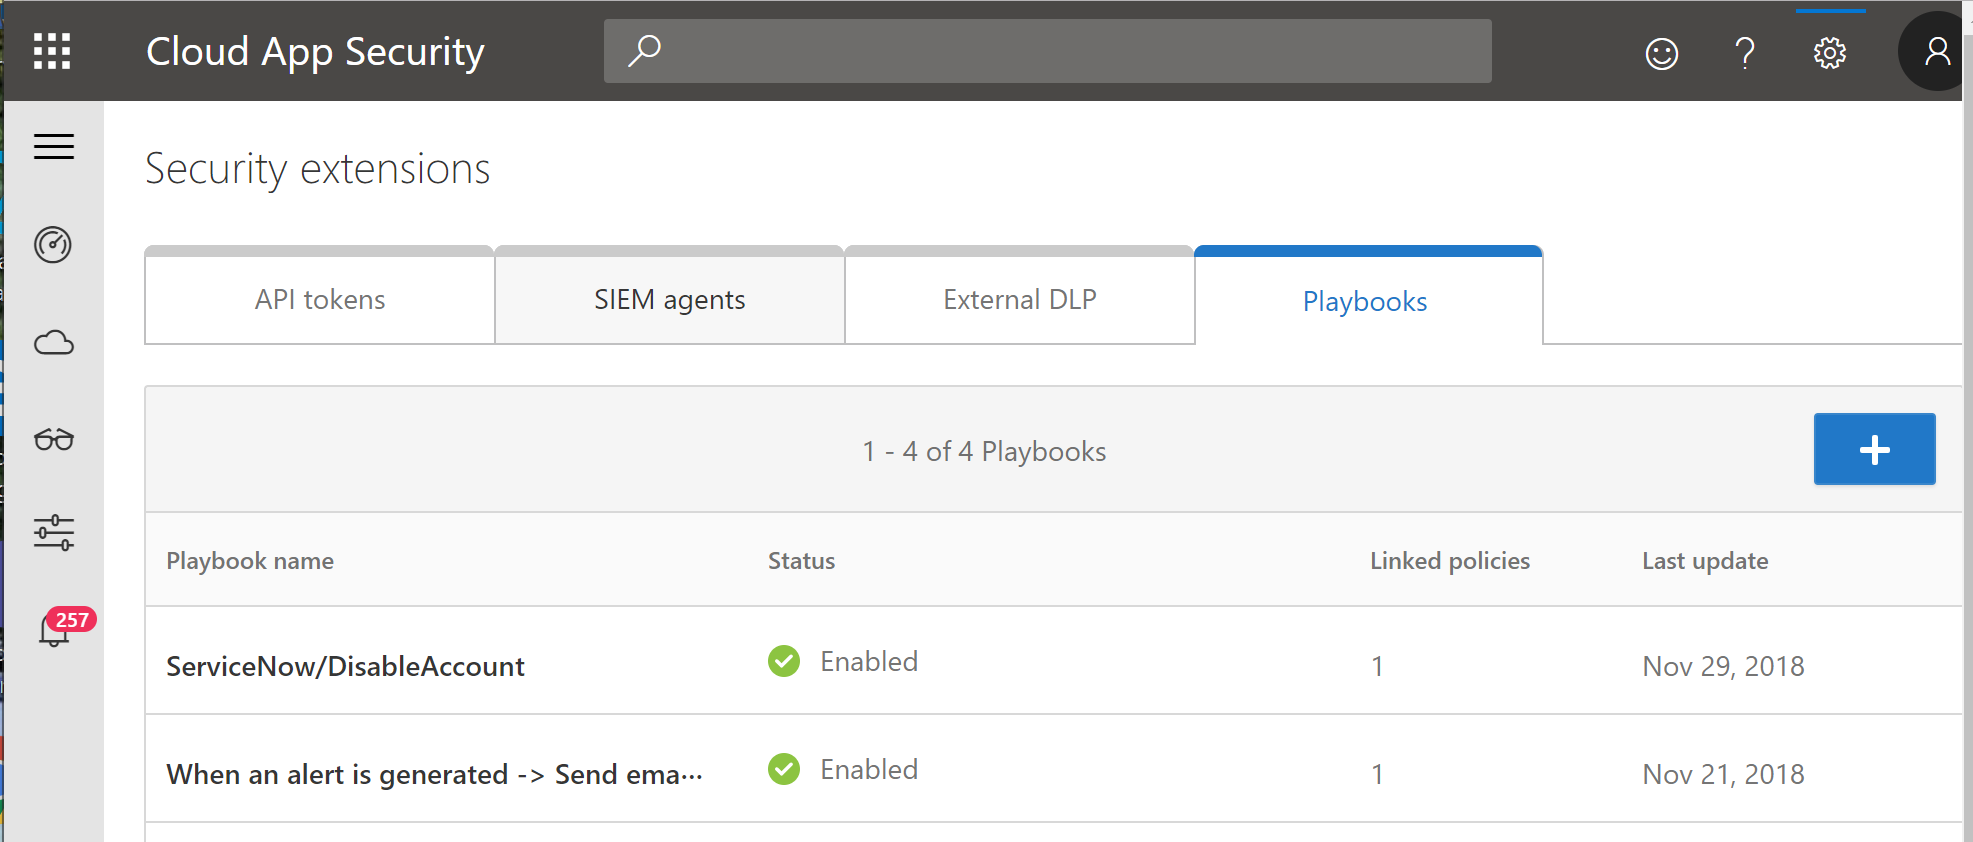
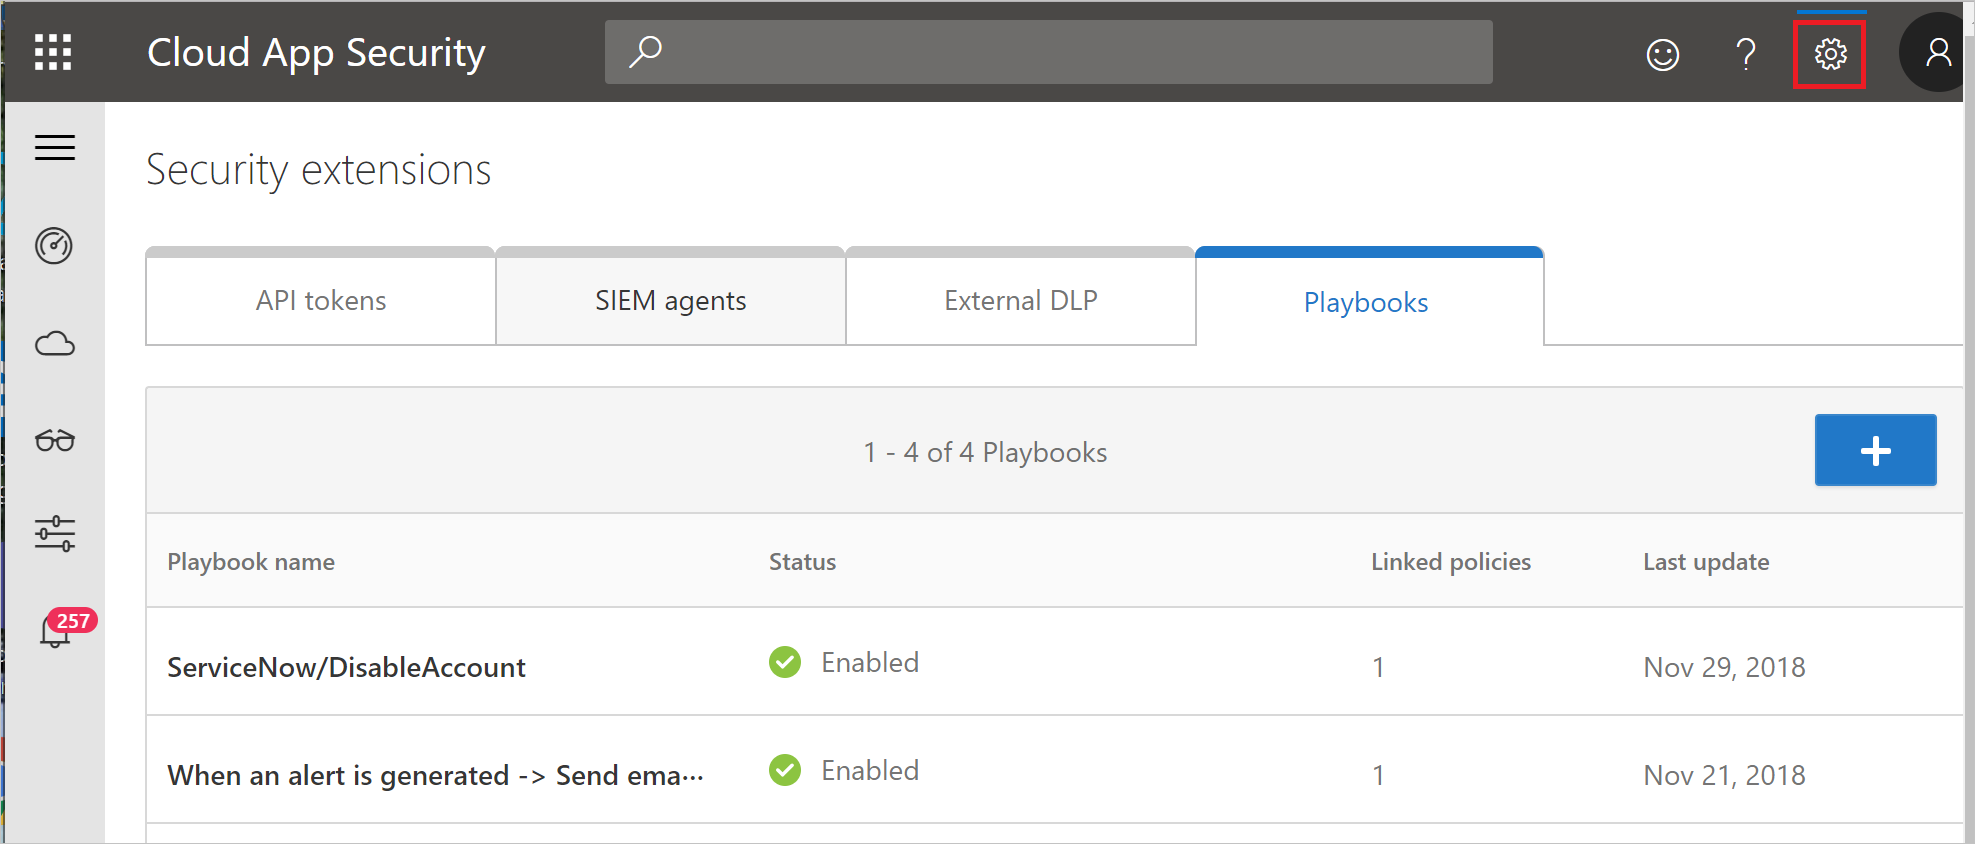
finish editing docs

diff --git a/CloudAppSecurityDocs/flow-integration.md b/CloudAppSecurityDocs/flow-integration.md
@@ -8,7 +8,7 @@ ms.topic: how-to
 
 [!INCLUDE [Banner for top of topics](includes/banner.md)]
 
-Cloud App Security integrates with [Microsoft Power Automate](/flow/getting-started) to provide custom alert automation and orchestration playbooks. By using the [ecosystem of connectors](/connectors/) available in Power Automate, you can automate the triggering of playbooks when Cloud App Security generates alerts. For example, automatically create an issue in ticketing systems using [ServiceNow connector](/connectors/service-now/) or send an approval email to execute a custom governance action when an alert is triggered in Cloud App Security.
+Cloud App Security integrates with [Microsoft Power Automate](/flow/getting-started) to provide custom alert automation and orchestration playbooks. By using the [connectors](/connectors/) available in Power Automate, you can automate the triggering of playbooks when Cloud App Security generates alerts. For example, automatically create an issue in ticketing systems using [ServiceNow connector](/connectors/service-now/) or send an approval email to execute a custom governance action when an alert is triggered in Cloud App Security.
 
 ## Prerequisites
 
@@ -16,36 +16,37 @@ Cloud App Security integrates with [Microsoft Power Automate](/flow/getting-star
 
 ## How it works
 
-On its own, Cloud App Security provides predefined governance options such as suspend a user or make a file private when defining policies. By creating a playbook in Power Automate using Cloud App Security connector, you can create workflows to enable customized governance options for your policies. After the playbook is created in Power Automate, simply associate it with a policy in Cloud App Security to send alerts to Power Automate. Microsoft Power Automate offers several connectors and conditions to create a customized workflow for your organization.
+On its own, Cloud App Security provides predefined governance options such as suspend a user or make a file private when defining policies. By creating a playbook in Power Automate using a Cloud App Security connector, you can create workflows to enable customized governance options for your policies. After the playbook is created in Power Automate, it will be automatically synchronized to Cloud App Security. Then associate it with a policy in Cloud App Security to send alerts to Power Automate. Microsoft Power Automate offers several connectors and conditions to create a customized workflow for your organization.
 
 The [Cloud App Security connector](/connectors/cloudappsecurity/) in Power Automate supports automated triggers and actions. Power Automate is triggered automatically when Cloud App Security generates an alert. Actions include changing the alert status in Cloud App Security.
 
-## How to create playbooks with Power Automate
+## Create Power Automate playbooks for Cloud App Security
 
 1. [Create an API token](api-authentication.md) in Cloud App Security.
 
-2. Navigate to the [Power Automate portal](https://flow.microsoft.com), select **My flows**, select **New flow**, and in the drop-down, under **Build your own from blank**, select **Automated cloud flow**.
+1. Navigate to the [Power Automate portal](https://flow.microsoft.com), select **My flows**, select **New flow**, and in the drop-down, under **Build your own from blank**, select **Automated cloud flow**.
 
     ![Power Automate create new flow](media/flow-create-new.png)
 
-3. Provide a name for the flow, and in **Choose your flow's trigger**, type **Cloud App Security** and select **When an alert is generated**.
+1. Provide a name for the flow, and in **Choose your flow's trigger**, type **Cloud App Security** and select **When an alert is generated**.
 
     ![Power Automate when an alert is generated](media/flow-when-alert.png)
 
-4. Under **Authentication settings**, paste the API token from step 1. Give your connection a name and select **Create**.
+1. Under **Authentication settings**, paste the API token from step 1. Give your connection a name and select **Create**.
 
     ![Power Automate add token](media/add-token.png)
 
-5. Select **+New step** to define the workflow that should be triggered when a policy in Cloud App Security generates an alert. You can add an action, logical condition, switch case conditions or loops and save the playbook. In this example, we'll be adding a [ServiceNow connector](/connectors/service-now/).
+1. Now create the playbook according to your requirements. Select **+New step** to define the workflow that should be triggered when a policy in Cloud App Security generates an alert. You can add an action, logical condition, switch case conditions, or loops and save the playbook. In this example, we'll be adding a [ServiceNow connector](/connectors/service-now/).
 
     ![Power Automate workflow](media/flow-workflow.png)
 
-6. In the [Cloud App Security portal](https://portal.cloudappsecurity.com/), go to **Policies** and in the row of the policy whose alerts you want to forward to Power Automate, click the three dots and select **Settings**.
-7. Under **Alerts**, select **Send Alerts to Power Automate** and choose the name of the playbook from the drop-down menu.
+1. Continue to configure your playbook. The playbook will be automatically synchronized with Cloud App Security. For more information about creating playbooks in Power Automate, see [Create a cloud flow in Power Automate](/power-automate/get-started-logic-flow).
+1. In the [Cloud App Security portal](https://portal.cloudappsecurity.com/), go to **Policies**. In the row of the policy whose alerts you want to forward to Power Automate, select the three dots and then select **Edit Policy**.
+1. Under **Alerts**, select **Send Alerts to Power Automate** and choose the name of the playbook you created earlier from the drop-down menu.
 
     ![Enable Power Automate in Cloud App Security portal](media/flow-mcas-config.png)
 
-8. Cloud App Security playbooks that you've authored or are granted access to can be seen in the **Security extensions** screen.
+1. Cloud App Security playbooks that you've authored or are granted access to can be seen by going to **Settings** -> **Security extensions**.
 
     ![view playbooks in Cloud App Security](media/flow-extensions.png)
 
